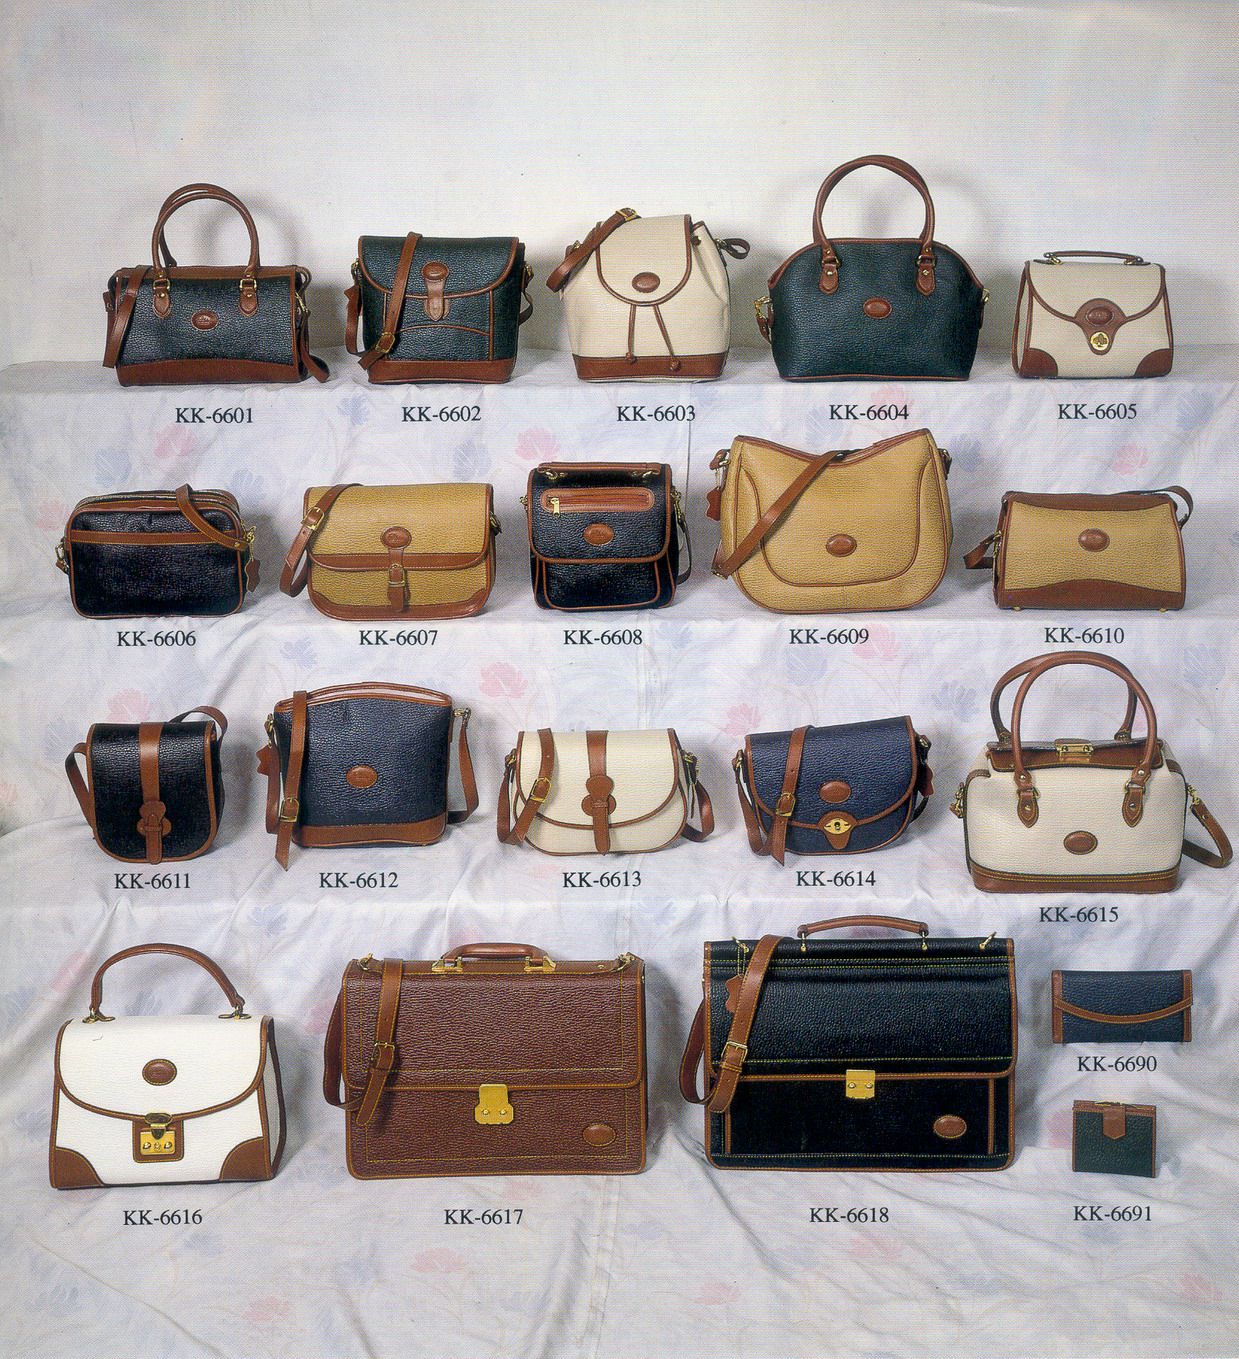
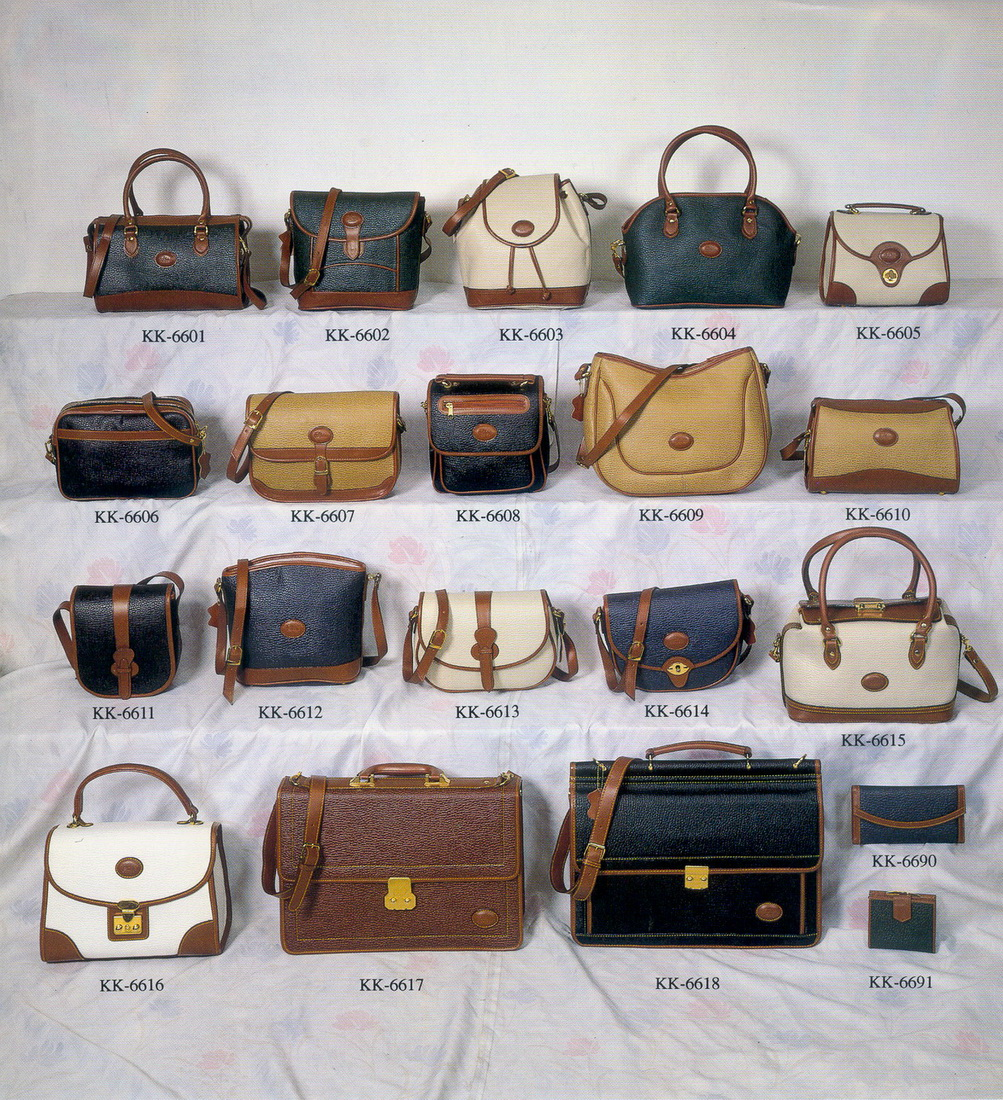
resize collections images

diff --git a/assets/projects/kwankinwebsite/index.html b/assets/projects/kwankinwebsite/index.html
@@ -349,14 +349,14 @@
             <ul>
               <li><a href="#">Our Team</a></li>
               <li><a href="contact.html">Contact Us</a></li>
-              <li><a href="#">Our Clients</a></li>
-              <li><a href="#">Our Culture</a></li>
+<!--               <li><a href="#">Our Clients</a></li>
+              <li><a href="#">Our Culture</a></li> -->
             </ul>
           </div>
           <div class="col-md-3 col-xs-6 kkwp-footer-widget">
             <ul>
-              <li><a href="#">Our Clients</a></li>
-              <li><a href="#">Our Culture</a></li>
+<!--               <li><a href="#">Our Clients</a></li>
+              <li><a href="#">Our Culture</a></li> -->
               <li><a href="#">Support</a></li>
               <li><a href="#">Blog</a></li>
             </ul>
@@ -369,7 +369,7 @@
           </div>
           <div class="col-md-6">
             <ul class="kkwp-social">
-              <li><a href="#"><i class="icon-facebook"></i></a></li>
+              <li><a href="https://www.facebook.com/kwankinhandbag/"><i class="icon-facebook"></i></a></li>
               <li><a href="#"><i class="icon-twitter"></i></a></li>
               <li><a href="#"><i class="icon-instagram"></i></a></li>
               <li><a href="#"><i class="icon-dribbble"></i></a></li>

diff --git a/assets/projects/kwankinwebsite/about.html b/assets/projects/kwankinwebsite/about.html
@@ -258,14 +258,14 @@
             <ul>
               <li><a href="#">Our Team</a></li>
               <li><a href="#">Contact Us</a></li>
-              <li><a href="#">Our Clients</a></li>
-              <li><a href="#">Our Culture</a></li>
+<!--               <li><a href="#">Our Clients</a></li>
+              <li><a href="#">Our Culture</a></li> -->
             </ul>
           </div>
           <div class="col-md-3 col-xs-6 kkwp-footer-widget">
             <ul>
-              <li><a href="#">Our Clients</a></li>
-              <li><a href="#">Our Culture</a></li>
+<!--               <li><a href="#">Our Clients</a></li>
+              <li><a href="#">Our Culture</a></li> -->
               <li><a href="#">Support</a></li>
               <li><a href="#">Blog</a></li>
             </ul>
@@ -278,7 +278,7 @@
           </div>
           <div class="col-md-6">
             <ul class="kkwp-social">
-              <li><a href="#"><i class="icon-facebook"></i></a></li>
+              <li><a href="https://www.facebook.com/kwankinhandbag/"><i class="icon-facebook"></i></a></li>
               <li><a href="#"><i class="icon-twitter"></i></a></li>
               <li><a href="#"><i class="icon-instagram"></i></a></li>
               <li><a href="#"><i class="icon-dribbble"></i></a></li>

diff --git a/assets/projects/kwankinwebsite/contact.html b/assets/projects/kwankinwebsite/contact.html
@@ -268,14 +268,14 @@
             <ul>
               <li><a href="#">Our Team</a></li>
               <li><a href="#">Contact Us</a></li>
-              <li><a href="#">Our Clients</a></li>
-              <li><a href="#">Our Culture</a></li>
+<!--               <li><a href="#">Our Clients</a></li>
+              <li><a href="#">Our Culture</a></li> -->
             </ul>
           </div>
           <div class="col-md-3 col-xs-6 kkwp-footer-widget">
             <ul>
-              <li><a href="#">Our Clients</a></li>
-              <li><a href="#">Our Culture</a></li>
+<!--               <li><a href="#">Our Clients</a></li>
+              <li><a href="#">Our Culture</a></li> -->
               <li><a href="#">Support</a></li>
               <li><a href="#">Blog</a></li>
             </ul>
@@ -288,7 +288,7 @@
           </div>
           <div class="col-md-6">
             <ul class="kkwp-social">
-              <li><a href="#"><i class="icon-facebook"></i></a></li>
+              <li><a href="https://www.facebook.com/kwankinhandbag/"><i class="icon-facebook"></i></a></li>
               <li><a href="#"><i class="icon-twitter"></i></a></li>
               <li><a href="#"><i class="icon-instagram"></i></a></li>
               <li><a href="#"><i class="icon-dribbble"></i></a></li>

diff --git a/assets/projects/kwankinwebsite/products.html b/assets/projects/kwankinwebsite/products.html
@@ -354,14 +354,14 @@
             <ul>
               <li><a href="#">Our Team</a></li>
               <li><a href="#">Contact Us</a></li>
-              <li><a href="#">Our Clients</a></li>
-              <li><a href="#">Our Culture</a></li>
+<!--               <li><a href="#">Our Clients</a></li>
+              <li><a href="#">Our Culture</a></li> -->
             </ul>
           </div>
           <div class="col-md-3 col-xs-6 kkwp-footer-widget">
             <ul>
-              <li><a href="#">Our Clients</a></li>
-              <li><a href="#">Our Culture</a></li>
+<!--               <li><a href="#">Our Clients</a></li>
+              <li><a href="#">Our Culture</a></li> -->
               <li><a href="#">Support</a></li>
               <li><a href="#">Blog</a></li>
             </ul>
@@ -374,7 +374,7 @@
           </div>
           <div class="col-md-6">
             <ul class="kkwp-social">
-              <li><a href="#"><i class="icon-facebook"></i></a></li>
+              <li><a href="https://www.facebook.com/kwankinhandbag/"><i class="icon-facebook"></i></a></li>
               <li><a href="#"><i class="icon-twitter"></i></a></li>
               <li><a href="#"><i class="icon-instagram"></i></a></li>
               <li><a href="#"><i class="icon-dribbble"></i></a></li>
